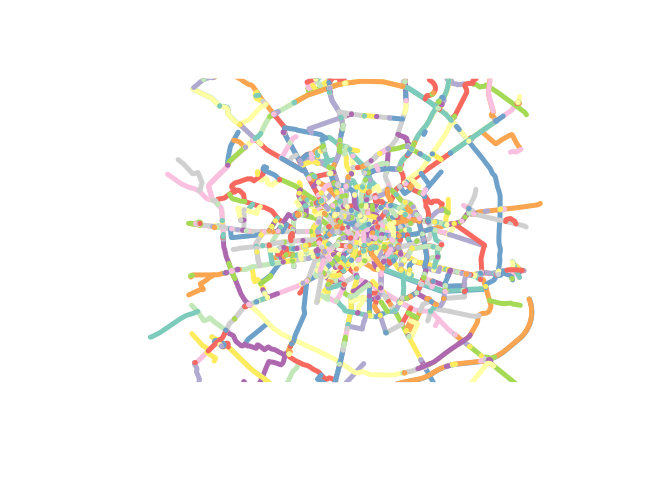
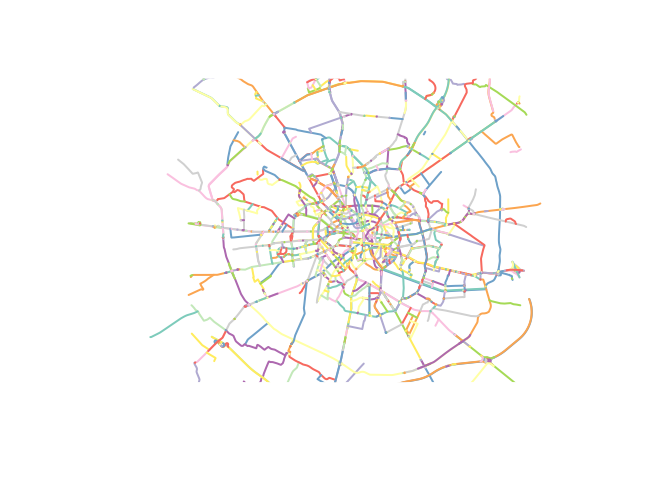
Update image size and line widths

diff --git a/README.md b/README.md
@@ -87,7 +87,7 @@ Plot streets
 ``` r
 plot(sf::st_geometry(streets),
      col = sf::sf.colors(n = nrow(streets), categorical = TRUE),
-     lwd = 5, xlim = c(418500, 437500), ylim = c(4909800, 4931500))
+     lwd = 2, xlim = c(418500, 437500), ylim = c(4909800, 4931500))
 ```
 
 </details>
@@ -110,7 +110,7 @@ Plot continuous streets
 ``` r
 plot(continuous_streets,
      col = sf::sf.colors(n = length(continuous_streets), categorical = TRUE),
-     lwd = 5, xlim = c(418500, 437500), ylim = c(4909800, 4931500))
+     lwd = 2, xlim = c(418500, 437500), ylim = c(4909800, 4931500))
 ```
 
 </details>
